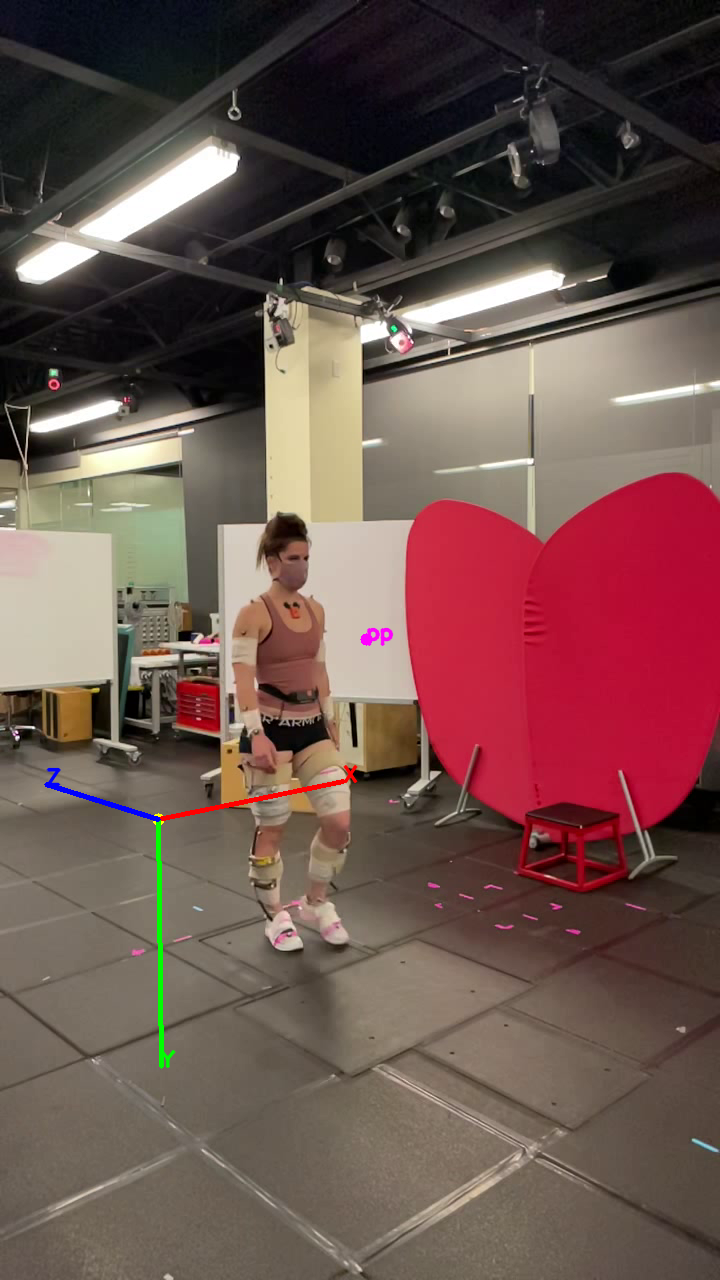
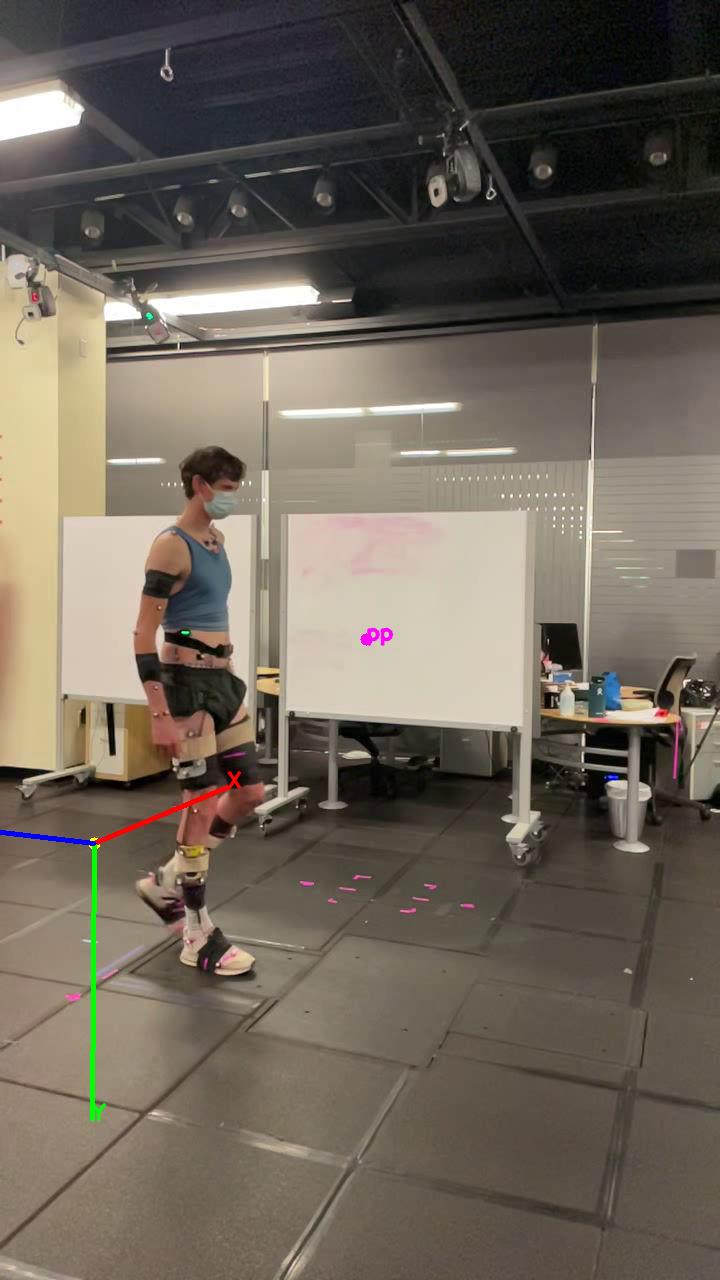
runs

diff --git a/random_outputs/metrabs_pose_estimation.py b/random_outputs/metrabs_pose_estimation.py
@@ -606,7 +606,7 @@ def main():
             intrinsic_matrix=K,
             distortion_coeffs=dist,
             extrinsic_matrix=T,
-            #world_up_vector=(1,1,0),
+            world_up_vector=(0,1,0),
             suppress_implausible_poses=False,
             max_detections=1,
         )
@@ -632,7 +632,7 @@ def main():
         heel_r = synthesize_heel(J("rank"), J("rtoe"), J("rkne"))
         heel_l = synthesize_heel(J("lank"), J("ltoe"), J("lkne"))
 
-        if fi == 60:
+        if fi == 24:
             first_img = image_tf.numpy()                  # RGB HxWx3, uint8
             first_boxes = pred['boxes'].numpy()           # (D, 5) or similar
             first_p3d   = pred['poses3d'].numpy()         # (D, J, 3)
@@ -709,7 +709,7 @@ def main():
         first_p3d,
         first_p2d,
         model.per_skeleton_joint_edges[skeleton].numpy(),
-        save_to=str("visual5.png"),
+        save_to=str("visual6.png"),
         # If you passed extrinsic_matrix=T above, set True so we DON'T apply camera-frame swap.
         use_extrinsics=True,
         R=T_np[:3, :3],

diff --git a/scripts/run_pipeline_metrabs_ocap.py b/scripts/run_pipeline_metrabs_ocap.py
@@ -36,11 +36,10 @@ def run_step(cmd: str, *, cwd: str = None) -> None:
         raise SystemExit(proc.returncode)
 
 def main():
-    MANIFEST = "./manifests/OpenCapDataset/subject3-2.yaml"
+    MANIFEST = "./manifests/OpenCapDataset/subject7-2.yaml"
     CONFIG = "./config/paths.yaml"
     TRIAL = "walking1"
-    SUBJECT_H = 1690
-
+    SUBJECT_H = 1680
     # Commands as provided (kept verbatim on purpose).
     steps = [
         #f"python src/pose/metrabs_pose_estimation.py  -m {MANIFEST} -p {CONFIG} --trial {TRIAL} --video-field video_sync --calib-pickle",
